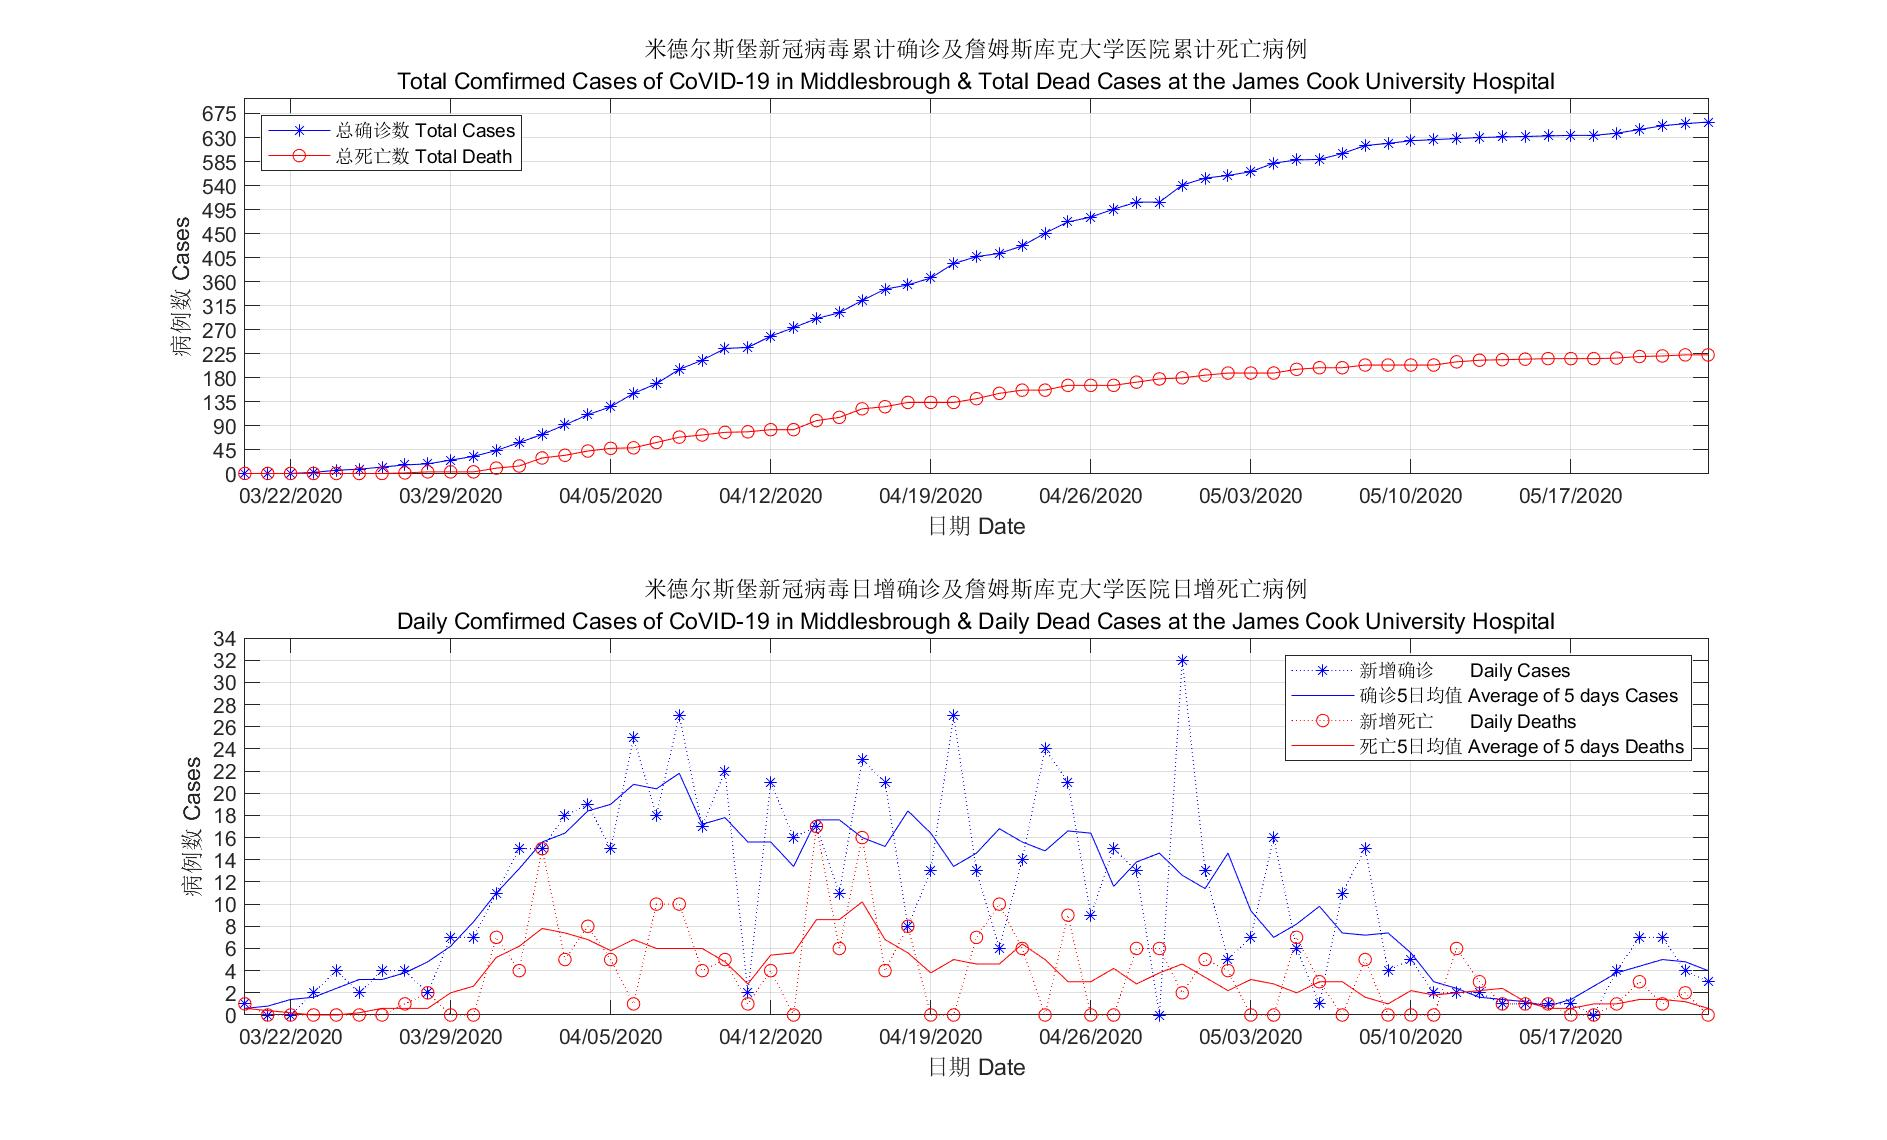
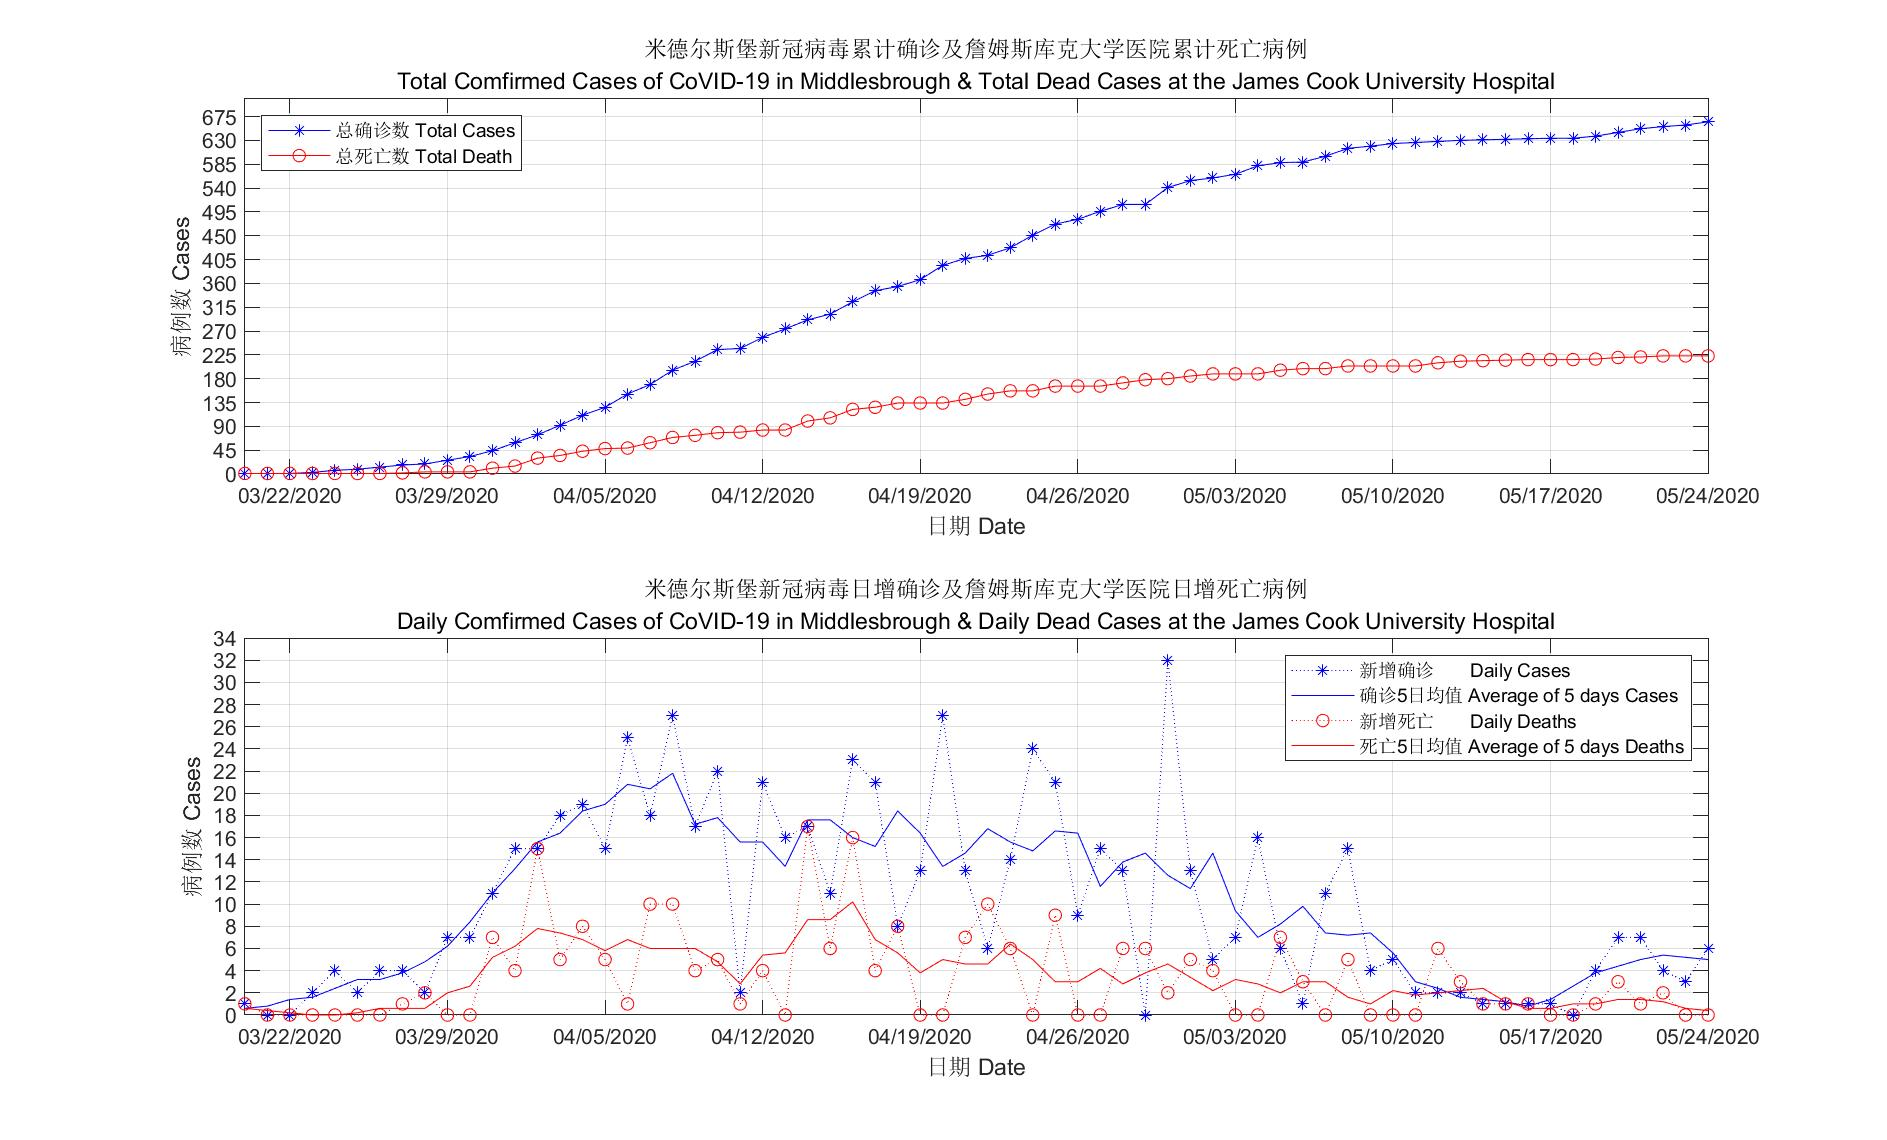
Update

diff --git a/Covid19_TS1.py b/Covid19_TS1.py
@@ -12,12 +12,12 @@ from matplotlib.ticker import MultipleLocator, FormatStrFormatter
 cases = [1, 1, 1, 3, 7, 9, 13, 17, 19, 26, 33, 44, 59, 74, 92, 111, 126, 151, 169, 196, 213,\
     235, 237, 258, 274, 291, 302, 325, 346, 354, 367, 394, 407, 413, 427, 451, 472, 481, 496,\
     509, 509, 541, 554, 559, 566, 582, 588, 589, 600, 615, 619, 624, 626, 628, 630, 631, 632,\
-    633, 634, 634, 638, 645, 652, 656, 659]
+    633, 634, 634, 638, 645, 652, 656, 659, 665]
 #deaths data from NHS
 dcases = [1, 1, 1, 1, 1, 1, 1, 2, 4, 4, 4, 11, 15, 30, 35, 43, 48, 49, 59, 69, 73, 78, 79, 83,\
     83, 100, 106, 122, 126, 134, 134, 134, 141, 151, 157, 157, 166, 166, 166, 172, 178, 180,\
     185, 189, 189, 189, 196, 199, 199, 204, 204, 204, 204, 210, 213, 214, 215, 216, 216, 216,\
-    217, 220, 221, 223, 223]
+    217, 220, 221, 223, 223, 223]
 
 #Initial
 #Date config

diff --git a/covid19_TS1.m b/covid19_TS1.m
@@ -8,12 +8,12 @@
 cases = [1 1 1 3 7 9 13 17 19 26 33 44 59 74 92 111 126 151 169 196 213 ...
     235 237 258 274 291 302 325 346 354 367 394 407 413 427 451 472 481 ...
     496 509 509 541 554 559 566 582 588 589 600 615 619 624 626 628 630 ...
-    631 632 633 634 634 638 645 652 656 659];
+    631 632 633 634 634 638 645 652 656 659 665];
 %deaths data from NHS
 dcases = [1 1 1 1 1 1 1 2 4 4 4 11 15 30 35 43 48 49 59 69 73 78 79 83 ...
     83 100 106 122 126 134 134 134 141 151 157 157 166 166 166 172 178 ...
     180 185 189 189 189 196 199 199 204 204 204 204 210 213 214 215 216 ...
-    216 216 217 220 221 223 223];
+    216 216 217 220 221 223 223 223];
 
 %Initial
 %Date config
